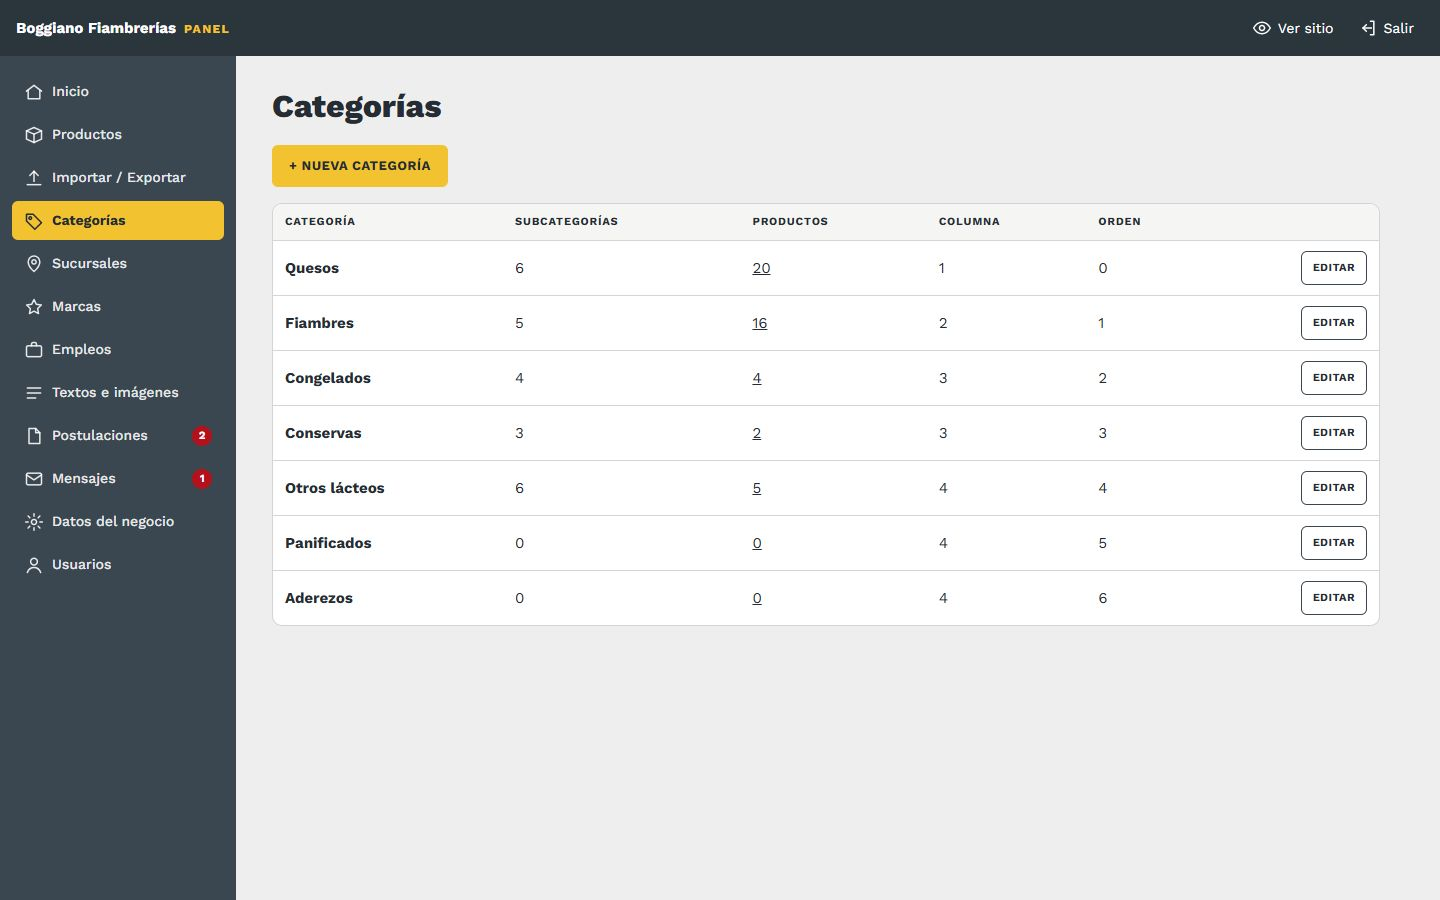
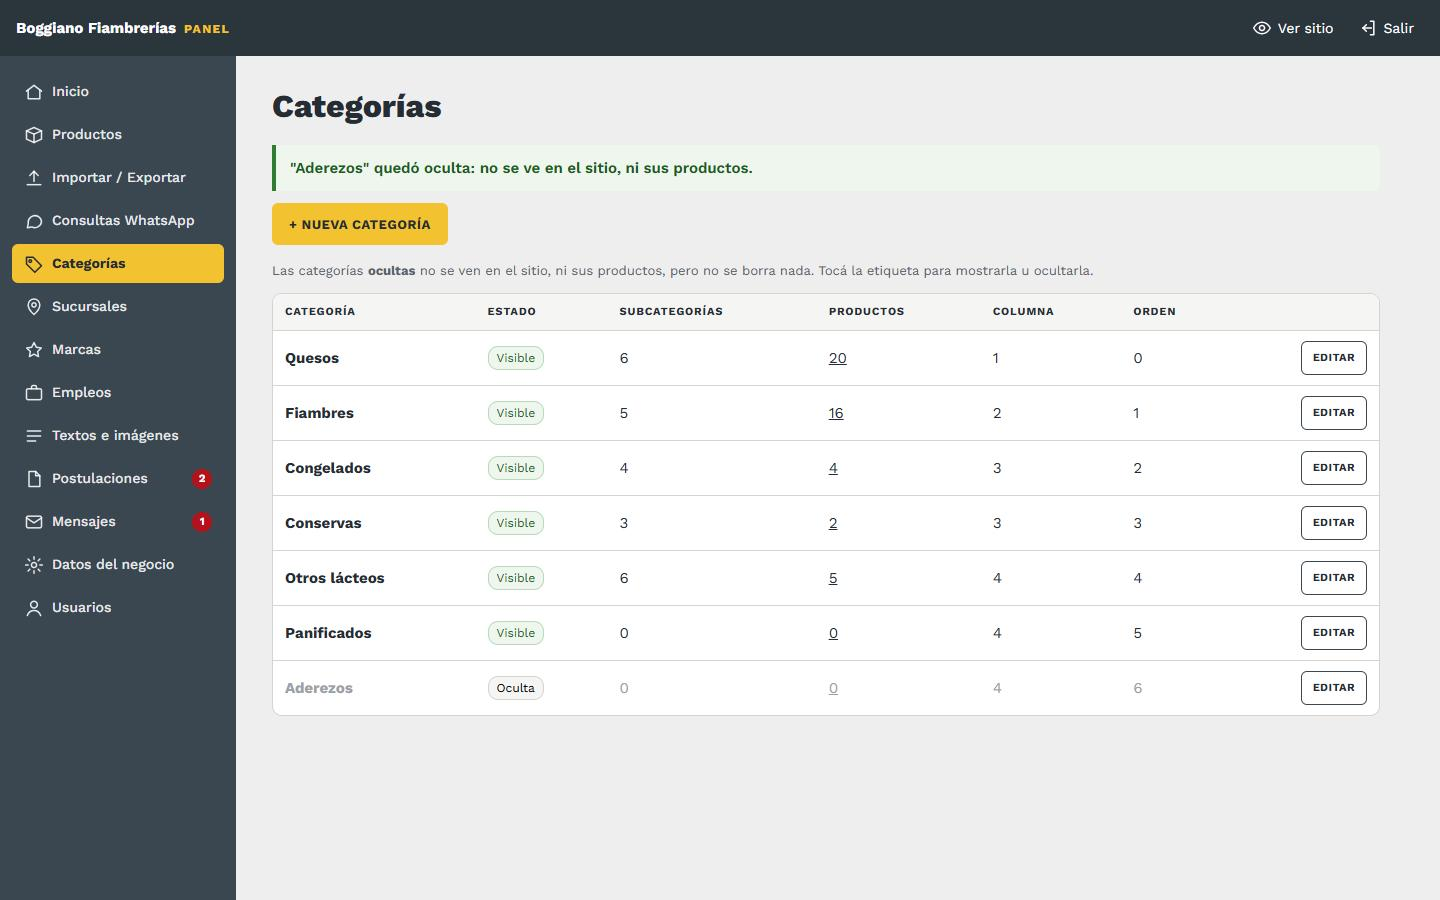
Guía: consultas por WhatsApp, Google y monitoreo, recuperar contraseña, categorías ocultas, borrado de CV y portada sin foto

diff --git a/guia/15-google-y-monitoreo.md b/guia/15-google-y-monitoreo.md
@@ -1,0 +1,44 @@
+# 15. Google y aviso si el sitio se cae
+
+[← Volver al índice](../README.md)
+
+Tres cosas gratuitas que se hacen **una sola vez**, con tu propia cuenta de Google y de UptimeRobot. El sitio ya está preparado para todas.
+
+## 1. Google Search Console: cómo te encuentran en Google
+
+Muestra con qué búsquedas aparece el sitio, cuántas personas entran desde Google y si Google encuentra algún error.
+
+1. Entrá a **[search.google.com/search-console](https://search.google.com/search-console)** con tu cuenta de Google.
+2. **Agregar propiedad → Prefijo de URL**, y escribí `https://boggianofiambrerias.com.ar/`.
+3. En los métodos de verificación elegí **Etiqueta HTML** y copiala. Es algo como `<meta name="google-site-verification" content="…">`.
+4. En el panel del sitio, en **Datos del negocio → Verificación de Google Search Console**, pegá la etiqueta entera y tocá **Guardar**.
+5. Volvé a Search Console y tocá **Verificar**.
+6. Ya verificado, entrá a **Sitemaps**, escribí `sitemap.xml` y tocá **Enviar**. El mapa del sitio se arma solo con todas las páginas y categorías.
+
+Los primeros datos aparecen en unos días.
+
+## 2. Perfil de Empresa en Google (Google Maps)
+
+Es la ficha que aparece en Google Maps y a la derecha de las búsquedas, con dirección, horarios, fotos y opiniones. **Para un comercio de barrio, es lo que más clientes trae.**
+
+1. Entrá a **[business.google.com](https://business.google.com)** con tu cuenta de Google.
+2. **Agregar empresa:** el nombre ("Boggiano Fiambrerías") y la categoría más parecida, por ejemplo Fiambrería o Delicatessen.
+3. Cargá la **dirección** del local, el **teléfono**, los **horarios** y el sitio web: `https://boggianofiambrerias.com.ar`.
+4. Google pide **verificar** que el local es tuyo: por video, por teléfono o con una carta. Seguí sus pasos.
+5. **Una ficha por sucursal**, cada una con su dirección y sus horarios.
+6. Subí fotos del local y de los productos. Las fichas con fotos reciben muchas más visitas.
+
+> Tené los mismos datos en el Perfil de Empresa y en [Sucursales](06-sucursales.md) del panel. Google confía más en un negocio cuando la dirección y los horarios coinciden en todos lados.
+
+## 3. Aviso si el sitio se cae (UptimeRobot)
+
+Un servicio gratuito que revisa el sitio cada 5 minutos y te manda un mail si deja de responder.
+
+1. Creá una cuenta gratis en **[uptimerobot.com](https://uptimerobot.com)**.
+2. Tocá **Add New Monitor** y completá:
+   - **Monitor Type:** `HTTP(s)`
+   - **URL:** `https://boggianofiambrerias.com.ar`
+   - **Monitoring Interval:** 5 minutos
+3. En **Alert Contacts**, tildá tu mail y guardá.
+
+Si te llega un aviso, mirá primero si el sitio abre desde el celular con los datos, sin wifi. Si no abre, revisá en hPanel si hay algún aviso de Hostinger, o escribile a su soporte (24/7).

diff --git a/README.md b/README.md
@@ -30,6 +30,11 @@ Hoy el sitio está publicado pero con **datos de ejemplo**. En este orden:
 - [ ] Crear un **segundo usuario** del panel, por si alguien olvida su contraseña. → [Usuarios](guia/11-usuarios.md)
 - [ ] Dar de baja la **tienda vieja** y cambiar el link en Instagram, Google y donde esté publicado.
 
+**Google y monitoreo** (una sola vez, con tu cuenta)
+- [ ] **Google Search Console** y el mapa del sitio. → [Google y monitoreo](guia/15-google-y-monitoreo.md)
+- [ ] **Perfil de Empresa en Google** (Google Maps), una ficha por sucursal. → [Google y monitoreo](guia/15-google-y-monitoreo.md)
+- [ ] **Aviso si el sitio se cae**, con UptimeRobot. → [Google y monitoreo](guia/15-google-y-monitoreo.md)
+
 ## Quiero cambiar…
 
 | Qué | Dónde, en el panel | Guía |
@@ -38,15 +43,17 @@ Hoy el sitio está publicado pero con **datos de ejemplo**. En este orden:
 | Un producto, su foto o si es destacado | Productos | [03](guia/03-productos.md) |
 | Muchos productos a la vez | Importar / Exportar | [04](guia/04-importar-exportar.md) |
 | Muchas fotos a la vez | Productos → Fotos en lote | [03](guia/03-productos.md#subir-muchas-fotos-juntas-fotos-en-lote) |
-| Las categorías o el menú "Productos" | Categorías | [05](guia/05-categorias.md) |
+| Las categorías o el menú "Productos" (agregar, ocultar, borrar) | Categorías | [05](guia/05-categorias.md) |
 | Direcciones, horarios, mapas | Sucursales | [06](guia/06-sucursales.md) |
 | Los logos de las marcas | Marcas | [07](guia/07-marcas.md) |
 | Las búsquedas de empleo / ver CV | Empleos · Postulaciones | [08](guia/08-empleos-y-postulaciones.md) |
 | Responder una consulta | Mensajes | [09](guia/09-mensajes.md) |
-| Un texto de cualquier página, el logo, las fotos grandes | Textos e imágenes | [10](guia/10-textos-e-imagenes.md) |
+| Un texto de cualquier página, el logo, las fotos grandes, la portada con o sin foto | Textos e imágenes | [10](guia/10-textos-e-imagenes.md) |
+| Ver qué productos consultan por WhatsApp | Consultas WhatsApp | [14](guia/14-consultas-por-whatsapp.md) |
 | Quién puede entrar al panel | Usuarios | [11](guia/11-usuarios.md) |
 | Leer los mails de las casillas | Webmail o Gmail | [12](guia/12-correo.md) |
 | Respaldos y qué no tocar | — | [13](guia/13-mantenimiento.md) |
+| Aparecer en Google y en Google Maps | Search Console y Perfil de Empresa | [15](guia/15-google-y-monitoreo.md) |
 
 ## Índice
 
@@ -63,6 +70,8 @@ Hoy el sitio está publicado pero con **datos de ejemplo**. En este orden:
 11. [Usuarios](guia/11-usuarios.md)
 12. [Correo](guia/12-correo.md)
 13. [Mantenimiento y respaldos](guia/13-mantenimiento.md)
+14. [Consultas por WhatsApp](guia/14-consultas-por-whatsapp.md)
+15. [Google y aviso si el sitio se cae](guia/15-google-y-monitoreo.md)
 
 ## Cómo funciona el sitio, en dos líneas
 

diff --git a/guia/05-categorias.md b/guia/05-categorias.md
@@ -6,7 +6,15 @@
 
 ![Categorías](../img/categorias.jpg)
 
-La lista muestra cada categoría con cuántas subcategorías y productos tiene, en qué columna del menú aparece y su orden. Tocando el número de productos, vas a esos productos filtrados.
+La lista muestra cada categoría con su **estado** (Visible u Oculta), cuántas subcategorías y productos tiene, en qué columna del menú aparece y su orden. Tocando el número de productos, vas a esos productos filtrados.
+
+## Ocultar una categoría que no usás
+
+Tocá la etiqueta **Visible** de la lista (pasa a **Oculta**), o destildá **Visible en el sitio** al editarla.
+
+- Una categoría oculta **desaparece del sitio**: del menú "Productos", de los filtros del catálogo, de Inicio y del pie. **Sus productos tampoco se ven.**
+- **No se borra nada:** productos, fotos y subcategorías quedan guardados. Para que vuelva, tocá **Oculta** y queda visible otra vez.
+- Es lo más seguro para una categoría que no tenés por ahora, o que es de temporada.
 
 ## Editar una categoría
 
@@ -34,4 +42,8 @@ La lista muestra cada categoría con cuántas subcategorías y productos tiene, 
 ## Nueva categoría y borrar
 
 - **+ Nueva categoría:** el nombre define la dirección del filtro, por ejemplo `/productos?cat=quesos`. **Esa dirección no cambia después**, aunque renombres la categoría, para que los links compartidos sigan andando.
-- **Borrar categoría:** solo se puede si **no tiene productos**. Pasalos a otra categoría o borralos primero.
+- **Borrar categoría:** está al final de la pantalla de edición. Si tiene productos, elegís qué pasa con ellos:
+  - **Pasarlos a otra categoría:** quedan sin subcategoría, porque las subcategorías eran de la que se borra.
+  - **Borrar también sus productos** y sus fotos.
+
+  Borrar no se puede deshacer. Si dudás, ocultala.

diff --git a/guia/14-consultas-por-whatsapp.md b/guia/14-consultas-por-whatsapp.md
@@ -1,0 +1,28 @@
+# 14. Consultas por WhatsApp
+
+[← Volver al índice](../README.md)
+
+**En el panel:** menú **Consultas WhatsApp**. También aparece el total de los últimos 7 días en el Inicio del panel.
+
+![Consultas por WhatsApp](../img/consultas.jpg)
+
+Cada vez que alguien toca un botón de WhatsApp del sitio, el panel lo anota. Así ves qué productos interesan y si el sitio trae consultas.
+
+## Qué muestra
+
+- **Período:** se elige arriba entre los últimos 7, 30 o 90 días.
+- **Totales:** cuántas consultas hubo, separadas según de dónde salieron:
+  - **Desde un producto:** el botón "Consultar" de cada producto.
+  - **Desde una sucursal:** el botón "Consultar" de cada sucursal.
+  - **Botón general:** el botón verde flotante, el del menú en el celular y los de Inicio y Contacto.
+- **Consultas por día:** pasá el mouse por una barra para ver el número de ese día.
+- **Productos y sucursales más consultados**, y **desde qué página** llegaron.
+
+## Bueno saber
+
+- **Se cuenta el clic, no la conversación.** Si alguien toca el botón y después no escribe, igual cuenta. Es una medida de interés, no de ventas.
+- **No se guarda nada de la persona:** ni su número, ni su nombre, ni qué escribió.
+- **Clics repetidos:** una misma conexión cuenta hasta 30 clics por hora, así nadie infla los números tocando el botón muchas veces.
+- **Para qué sirve:**
+  - **Fotos:** los productos que más se consultan son los primeros a los que conviene ponerles foto.
+  - **Destacados:** conviene marcar esos productos como destacados, así aparecen en Inicio.

diff --git a/guia/10-textos-e-imagenes.md b/guia/10-textos-e-imagenes.md
@@ -37,8 +37,19 @@
 | Imagen | Dónde se ve | Recomendación |
 |---|---|---|
 | **Logo** | Encabezado y pie de página | Ya está el **logo oficial**. Subí otro solo si querés cambiarlo, en PNG con fondo transparente. "Quitar" vuelve al oficial |
-| **Foto de portada** | Inicio, al lado del título grande. También es la imagen que se ve al **compartir el link** del sitio | Horizontal, del mostrador o de una picada. Sin foto se ve un recuadro que dice "Foto del mostrador o de una picada" |
+| **Foto de portada** | Inicio, al lado del título grande. También es la imagen que se ve al **compartir el link** del sitio | Horizontal, del mostrador o de una picada. Sin foto, la portada muestra solo el título y al compartir se ve el logo |
 | **Foto de Nosotros** | Página Nosotros, al lado de la historia | Del local o del equipo |
+
+### Portada con o sin foto
+
+En la misma pestaña **Imágenes**, en **Portada de Inicio**:
+
+- **Con foto:** la foto de portada se muestra a la derecha del título.
+- **Sin foto:** solo el título, más grande y a todo el ancho. La foto queda guardada, así que volver a "Con foto" la muestra de nuevo.
+
+**Si no hay ninguna foto de portada cargada,** la portada se muestra sola sin foto, sin el recuadro vacío.
+
+![Portada sin foto](../img/portada-sin-foto.jpg)
 
 - **Formatos:** JPG, PNG o WebP, de hasta 15 MB. Se achican solas.
 - **Vista previa:** apenas elegís el archivo se ve en el panel, y se guarda con **Guardar imágenes**.

diff --git a/guia/01-entrar-al-panel.md b/guia/01-entrar-al-panel.md
@@ -24,5 +24,5 @@
 - **La sesión se cierra sola** después de 8 horas sin usar el panel. Si estabas editando, volvé a entrar y repetí el último cambio.
 - **Bloqueo por intentos:** después de **5 contraseñas mal puestas**, el ingreso queda bloqueado **15 minutos** desde esa conexión. Es una protección contra intentos de entrar a la fuerza. Esperá y probá de nuevo.
 - **Si aparece "La sesión venció o el formulario es inválido",** tenías la página abierta hacía mucho. Volvé atrás, recargá y guardá de nuevo.
-- **No hay "olvidé mi contraseña".** Si te la olvidás, otro usuario del panel te puede crear uno nuevo. Por eso conviene que haya al menos dos ([ver Usuarios](11-usuarios.md)).
+- **¿Olvidaste la contraseña?** En la pantalla de ingreso tocá **¿Olvidaste tu contraseña?** y escribí tu email. Te llega un link para elegir una nueva: sirve **una sola vez** y vence en **1 hora**. Si no te llega, mirá en spam, o pedile a otro usuario del panel que te cree uno nuevo ([Usuarios](11-usuarios.md)).
 - **Se usa igual en el celular y en la computadora.**

diff --git a/guia/02-datos-del-negocio.md b/guia/02-datos-del-negocio.md
@@ -18,6 +18,7 @@
 | **Email que recibe los mensajes** | Normalmente `ventas@` | A esta casilla llegan los avisos de **Contacto** y **Proveedores** |
 | **Email que recibe los CV** | Normalmente `empleos@` | A esta casilla llegan las **postulaciones**, con el CV adjunto |
 | **Instagram / Facebook** | La dirección completa, empezando con `https://` | Íconos en el pie de página. Si quedan vacíos, el ícono no aparece |
+| **Verificación de Google Search Console** | La etiqueta que da Google (o solo el código). Opcional | Le prueba a Google que el sitio es tuyo. Ver [Google y monitoreo](15-google-y-monitoreo.md) |
 | **Barra "Versión de prueba"** | Casilla | Prendida: aparece una franja amarilla arriba de todo el sitio que avisa que los datos son de ejemplo. **Apagala cuando cargues los datos reales** |
 
 Tocá **Guardar** al final. Si un dato tiene mal el formato (un mail sin @ o una red que no empieza con `https://`), el panel te avisa cuál es. El resto se guarda igual.

diff --git a/guia/08-empleos-y-postulaciones.md b/guia/08-empleos-y-postulaciones.md
@@ -46,4 +46,5 @@
 ### Datos personales
 
 - **Dónde quedan los CV:** en un lugar **privado** del servidor. No se pueden abrir desde internet: solo se descargan desde el panel.
-- **Ley 25.326:** los CV son datos personales protegidos por la Ley de Protección de Datos Personales. **Borrá los que ya no necesites,** y si alguien pide que borren sus datos, borrá su postulación.
+- **Ley 25.326:** los CV son datos personales protegidos por la Ley de Protección de Datos Personales. Si alguien pide que borren sus datos, borrá su postulación.
+- **Borrado automático:** arriba de la lista de Postulaciones elegís cada cuántos meses se borran solas las postulaciones viejas, con su CV. Viene en **12 meses**, y **0** es no borrar nunca. Se hace sola una vez por día, la primera vez que alguien entra al panel. Al guardar un plazo nuevo, se borran en el momento las que ya lo superaron.
